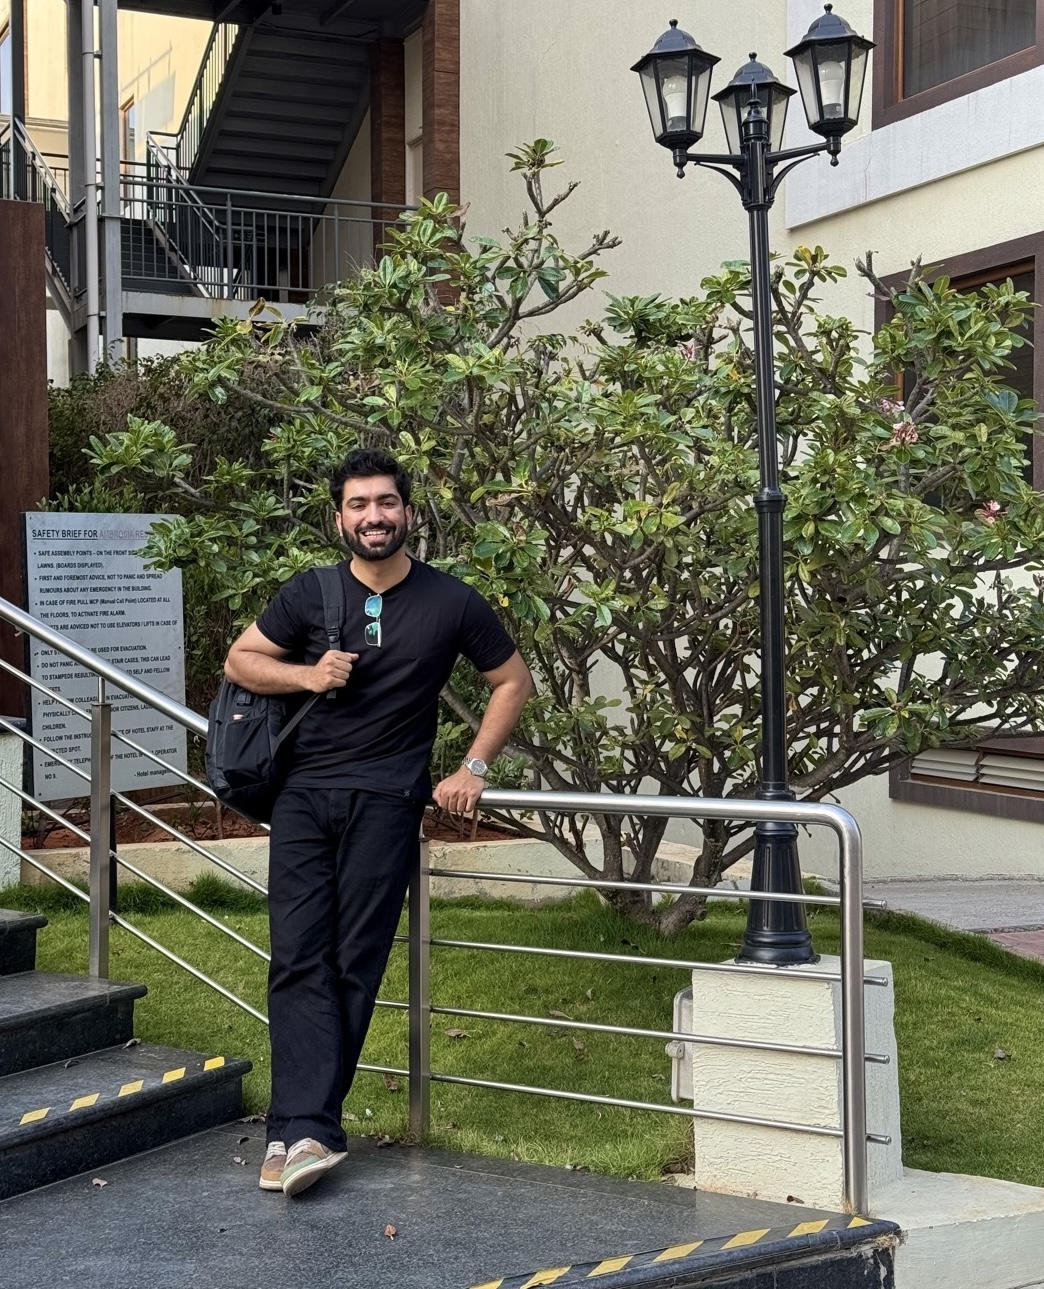
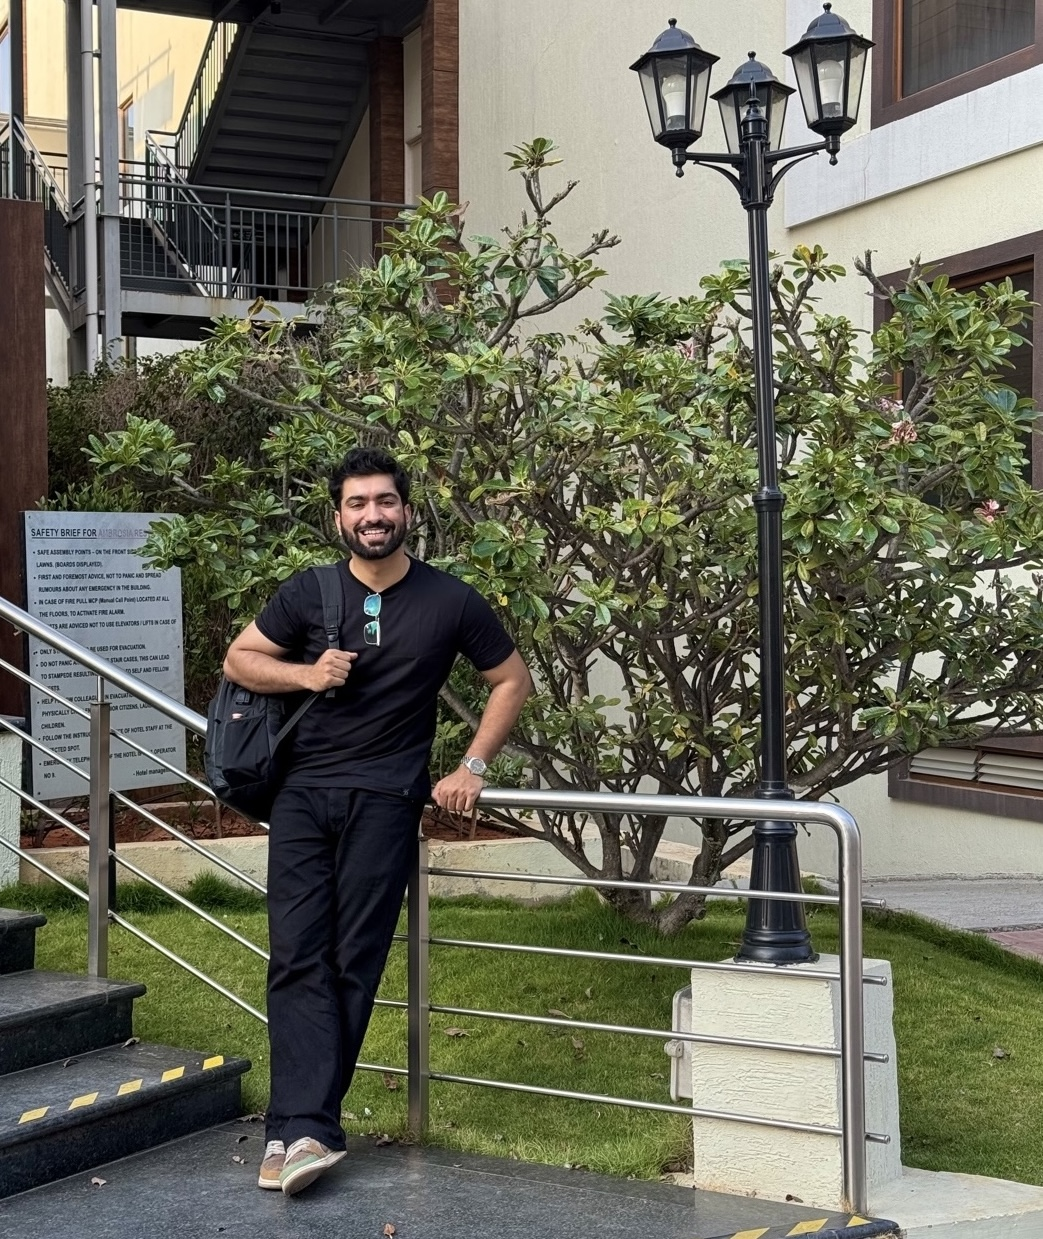
fixed about section

diff --git a/src/sections/AboutSection.tsx b/src/sections/AboutSection.tsx
@@ -36,6 +36,23 @@ export function AboutSection() {
       <div className="section-wrapper !pb-16 !pt-24 md:!pt-28">
         <div className="grid items-center gap-10 lg:grid-cols-[5fr_7fr] lg:gap-12">
 
+          {/* Heading — shown first on mobile only, hidden on desktop (desktop version is inside Content below) */}
+          <div className="lg:hidden">
+            <div className="mb-5 flex flex-wrap gap-2">
+              <span className="inline-flex items-center gap-1.5 rounded-full border border-emerald-200 bg-emerald-50 px-3 py-1 text-xs font-semibold text-emerald-700">
+                <span className="h-2 w-2 rounded-full bg-emerald-500" aria-hidden="true" />
+                OPEN FOR MENTORSHIP
+              </span>
+              <span className="inline-flex items-center gap-1 rounded-full border border-brand-100 bg-brand-50 px-3 py-1 text-xs font-semibold text-brand-primary">
+                AI STRATEGIST
+              </span>
+            </div>
+            <h2 className="text-4xl font-bold leading-tight text-text-primary sm:text-5xl">
+              Hey! I'm{' '}
+              <span className="text-brand-primary">Piyush Sharma</span>
+            </h2>
+          </div>
+
           {/* Photo */}
           <motion.div
             initial={{ opacity: 0, x: -24 }}
@@ -47,7 +64,7 @@ export function AboutSection() {
               <img
                 src="/images/about-photo.jpg"
                 alt="Piyush Sharma"
-                className="h-80 w-full object-cover object-top sm:h-96 lg:h-[640px]"
+                className="h-80 w-full object-cover object-bottom sm:h-96 lg:h-[640px]"
                 loading="lazy"
               />
             </div>
@@ -60,22 +77,22 @@ export function AboutSection() {
             viewport={{ once: true, amount: 0.15 }}
             transition={{ duration: 0.55, delay: 0.12 }}
           >
-            {/* Availability badges */}
-            <div className="mb-5 flex flex-wrap gap-2">
-              <span className="inline-flex items-center gap-1.5 rounded-full border border-emerald-200 bg-emerald-50 px-3 py-1 text-xs font-semibold text-emerald-700">
-                <span className="h-2 w-2 rounded-full bg-emerald-500" aria-hidden="true" />
-                OPEN FOR MENTORSHIP
-              </span>
-              <span className="inline-flex items-center gap-1 rounded-full border border-brand-100 bg-brand-50 px-3 py-1 text-xs font-semibold text-brand-primary">
-                AI STRATEGIST
-              </span>
+            {/* Availability badges + Heading — desktop only */}
+            <div className="hidden lg:block">
+              <div className="mb-5 flex flex-wrap gap-2">
+                <span className="inline-flex items-center gap-1.5 rounded-full border border-emerald-200 bg-emerald-50 px-3 py-1 text-xs font-semibold text-emerald-700">
+                  <span className="h-2 w-2 rounded-full bg-emerald-500" aria-hidden="true" />
+                  OPEN FOR MENTORSHIP
+                </span>
+                <span className="inline-flex items-center gap-1 rounded-full border border-brand-100 bg-brand-50 px-3 py-1 text-xs font-semibold text-brand-primary">
+                  AI STRATEGIST
+                </span>
+              </div>
+              <h2 className="mb-6 text-4xl font-bold leading-tight text-text-primary sm:text-5xl">
+                Hey! I'm{' '}
+                <span className="text-brand-primary">Piyush Sharma</span>
+              </h2>
             </div>
-
-            {/* Heading */}
-            <h2 className="mb-6 text-4xl font-bold leading-tight text-text-primary sm:text-5xl">
-              Hey! I'm{' '}
-              <span className="text-brand-primary">Piyush Sharma</span>
-            </h2>
 
             {/* Bio */}
             <div className="space-y-4 text-base leading-8 text-text-secondary">
